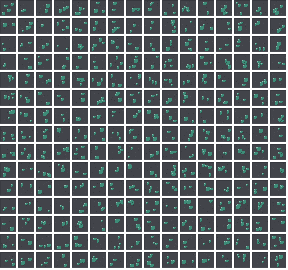
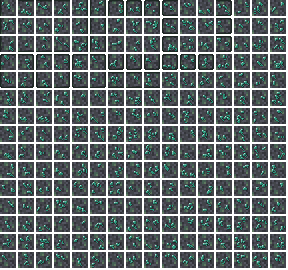
Fix outfit, ore and slate textures; backpack and test kit bugs
Outfits (7 body + 7 leg sheets):
- Arm/shoulder frames had shrunken copies of the coat pasted in; restore
  real sleeve shapes recoloured from each coat's palette
- Torsos keep the v0.5.4 designs, reduced to 7 colours with an outline
- Legs recoloured to match their coat instead of near-black; walk cycle kept

Tiles:
- Ore sheets rebuilt as proper 288x270 frame sheets with outlined, rounded
  exposed edges and shaded ore crystals in a matching stone/slate bed
- MossSlate/GlassSlate restored to 288x270 and GlassSlateWall to 468x180;
  the 54x54/108x108 sheets left most frames empty (invisible holes)

Code:
- Backpack quick stash skips favourited items and backpacks, stacks via
  ItemLoader, plays the grab sound
- Test kit drops sync in multiplayer; tooltip localised
- Add icon_small.png

Changed region(s): [[0.0, 0.0, 1.0, 1.0]]

diff --git a/NyuuTerraria/Content/Backpacks/BackpackQuickStash.cs b/NyuuTerraria/Content/Backpacks/BackpackQuickStash.cs
@@ -2,6 +2,8 @@ using System;
 using System.Reflection;
 using Microsoft.Xna.Framework.Input;
 using Terraria;
+using Terraria.Audio;
+using Terraria.ID;
 using Terraria.ModLoader;
 using Terraria.UI;
 
@@ -92,18 +94,17 @@ public class BackpackQuickStash : ModSystem
 
         Item item = inv[slot];
         if (item == null || item.IsAir || item.stack <= 0) return false;
+        // Favourited items stay put, like vanilla quick-stack; a backpack never goes inside a backpack.
+        if (item.favorited || item.ModItem is BackpackItem) return false;
         if (!HasRoom(storage, capacity, item)) return false;
 
         // 1. top up matching stacks that are not full
         for (int i = 0; i < capacity && !item.IsAir; i++)
         {
             Item dest = storage.Items[i];
-            if (dest.IsAir || dest.type != item.type || dest.prefix != item.prefix) continue;
-            int space = dest.maxStack - dest.stack;
-            if (space <= 0) continue;
-            int moved = Math.Min(space, item.stack);
-            dest.stack += moved;
-            item.stack -= moved;
+            if (!Stackable(dest, item)) continue;
+            // ItemLoader handles ModItem.CanStack/OnStack, so modded per-item data is respected.
+            ItemLoader.TryStackItems(dest, item, out _);
             if (item.stack <= 0) item.TurnToAir();
         }
 
@@ -119,8 +120,15 @@ public class BackpackQuickStash : ModSystem
             }
         }
 
+        SoundEngine.PlaySound(SoundID.Grab);
         Recipe.UpdateRecipeList();
         return true;
+    }
+
+    private static bool Stackable(Item dest, Item item)
+    {
+        return !dest.IsAir && dest.type == item.type && dest.stack < dest.maxStack
+            && ItemLoader.CanStack(dest, item);
     }
 
     private static bool HasRoom(BackpackStorage storage, int capacity, Item item)
@@ -129,7 +137,7 @@ public class BackpackQuickStash : ModSystem
         {
             Item dest = storage.Items[i];
             if (dest.IsAir) return true;
-            if (dest.type == item.type && dest.prefix == item.prefix && dest.stack < dest.maxStack) return true;
+            if (Stackable(dest, item)) return true;
         }
         return false;
     }

diff --git a/NyuuTerraria/Content/Testing/TestKit.cs b/NyuuTerraria/Content/Testing/TestKit.cs
@@ -82,7 +82,10 @@ public class NyuuTestKit : ModItem
             int row = made / PerRow;
             Vector2 spot = new Vector2(player.Center.X - 170f + col * ColumnWidth,
                                        player.Center.Y - 40f + row * RowHeight);
-            Item.NewItem(source, spot, type, give);
+            int index = Item.NewItem(source, spot, type, give);
+            // A multiplayer client only spawns the drop locally; tell the server about it.
+            if (Main.netMode == NetmodeID.MultiplayerClient)
+                NetMessage.SendData(MessageID.SyncItem, -1, -1, null, index, 1f);
             made++;
         }
 

diff --git a/docs/releases/v0.5.4.md b/docs/releases/v0.5.4.md
@@ -54,3 +54,21 @@ first and pressing shift no longer stashes anything.
 
 Pets play all four frames, bosses and small creatures are drawn at their body size, and the ore and
 slate tiles are on the 54×54 grid.
+
+## Post-release fixes
+
+* **Outfit sleeves** — the icon pass had pasted a shrunken copy of each coat into every arm and
+  shoulder frame, so arms drew as tiny floating coats. Arm frames are back to real sleeve shapes,
+  recoloured from each coat's own palette. Torsos keep the new designs, reduced to a 7-colour
+  palette with a dark outline so they read as pixel art instead of a scaled painting.
+* **Legs** — the last pass had dulled every leg piece to near-black. They now take their coat's
+  colours again; the walk cycle (14 distinct frames) is untouched.
+* **Ores** — every frame of the seven ore sheets was a full square, so veins showed as hard boxes.
+  The sheets are now proper 288×270 frame sheets with outlined, rounded exposed edges, and the ore
+  shows as shaded crystals set in a stone or slate bed.
+* **Moss Slate / Glass Slate / Glass Slate Wall** — these were cut down to 54×54 and 108×108 in
+  0.5.2, which left most frames empty, so blocks and walls had invisible holes. Rebuilt at
+  288×270 and 468×180 from the same designs.
+* **Backpack quick stash** — favourited items and backpacks are no longer stashed, stacking goes
+  through tModLoader's stack rules, and it plays the grab sound.
+* **Nyuu Test Kit** — drops sync in multiplayer; tooltip added. `icon_small.png` added.
